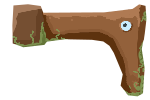
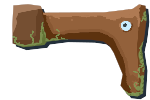
New Banana + Simpler Placing menu

diff --git a/menu/place_menu.py b/menu/place_menu.py
@@ -74,22 +74,6 @@ def place_menu(main):
         main.field_y = int((main.mouse_pos[1] - 242) / 50)
         main.mouse_in_field = True
     
-
-    # Selecting fish sizes
-    if main.mouse_button == 1: # Left mouse button check
-        if main.is_in_rect(main.mouse_pos, (198, 262), (204, 165)):
-            if main.current_lengths.count(2) > 0:
-                main.current_fish_selected = 2 # 2x1 Fish
-        if main.is_in_rect(main.mouse_pos, (198, 427), (276, 159)):
-            if main.current_lengths.count(3) > 0:
-                main.current_fish_selected = 3 # 3x1 Fish
-        if main.is_in_rect(main.mouse_pos, (1087, 268), (381, 152)):
-            if main.current_lengths.count(4) > 0:
-                main.current_fish_selected = 4 # 4x1 Fish
-        if main.is_in_rect(main.mouse_pos, (1087, 420), (455, 142)):
-            if main.current_lengths.count(5) > 0:
-                main.current_fish_selected = 5 # 5x1 Fish
-    
     # Rotation fish with mouse wheel (Mouse button 4 + 5)
     if main.mouse_button == 4:
         main.current_rotation -= 1
@@ -154,30 +138,6 @@ def render_placing_menu(display, field_x, field_y, fish_left, selected, button1,
         pygame.draw.rect(display, "#8b5555",
             pygame.Rect(field_x * 50 + 541, field_y * 50 + 242, 50, 50),
             5, 3)
-    
-    # White selection box
-    if selected == 2: # 2x1 Fish
-        pygame.draw.rect(display, "#EEEEEE",
-        pygame.Rect(198, 262, 244, 165),
-        5, 3)
-    if selected == 3: # 3x1 Fish
-        pygame.draw.rect(display, "#EEEEEE",
-        pygame.Rect(198, 427, 276, 159),
-        5, 3)
-    if selected == 4: # 4x1 Fish
-        pygame.draw.rect(display, "#EEEEEE",
-        pygame.Rect(1087, 268, 381, 152),
-        5, 3)
-    if selected == 5: # 5x1 Fish
-        pygame.draw.rect(display, "#EEEEEE",
-        pygame.Rect(1087, 420, 455, 142),
-        5, 3)
-    
-    # Fish count text
-    show_fish_count(display, (358, 269), fish_left.count(2))
-    show_fish_count(display, (380, 436), fish_left.count(3))
-    show_fish_count(display, (1266, 273), fish_left.count(4))
-    show_fish_count(display, (1278, 420), fish_left.count(5))
 
     # Exit button 110, 40
     text_color = "#b86145"
@@ -214,15 +174,4 @@ def render_placing_menu(display, field_x, field_y, fish_left, selected, button1,
             1100,
             645
         )
-    )
-
-
-
-def show_fish_count(display, pos, count):
-    text_color = "#CCCCCC"
-    if count == 0: text_color = "#999999"
-    text_texture = fish_count_font.render(f"{count}x", True, text_color)
-    display.blit(
-        text_texture,
-        pos
     )

diff --git a/menu/show_fish.py b/menu/show_fish.py
@@ -6,6 +6,7 @@ fish_l3 = pygame.image.load("assets\\fish l3.png")
 fish_l4 = pygame.image.load("assets\\fish l4.png")
 fish_l5 = pygame.image.load("assets\\fish l5.png")
 fish_l6 = pygame.image.load("assets\\fish l6.png")
+fish_l7 = pygame.image.load("assets\\fish l7.png")
 
 def render_fish(display, offsetX, offsetY, fish_list, preview):
     for fish in fish_list:
@@ -16,6 +17,7 @@ def render_fish(display, offsetX, offsetY, fish_list, preview):
         if fish.length == 4: fish_texture = fish_l4
         if fish.length == 5: fish_texture = fish_l5
         if fish.length == 6: fish_texture = fish_l6
+        if fish.length == 7: fish_texture = fish_l7
         if preview:
             fish_texture.set_alpha(120)
         else:
@@ -27,6 +29,7 @@ def render_fish(display, offsetX, offsetY, fish_list, preview):
 
             if fish.length == 1: position = (position[0], position[1] - 50)
             if fish.length == 6: position = (position[0], position[1] + 150)
+            if fish.length == 7: position = (position[0], position[1] + 250)
 
             display.blit(fish_texture, position)
         if fish.direction == 1:
@@ -38,6 +41,7 @@ def render_fish(display, offsetX, offsetY, fish_list, preview):
 
             if fish.length == 1: position = (position[0] - 50, position[1])
             if fish.length == 6: position = (position[0] - 50, position[1])
+            if fish.length == 7: position = (position[0] - 50, position[1])
 
             display.blit(fish_texture, position)
         if fish.direction == 3:
@@ -49,6 +53,9 @@ def render_fish(display, offsetX, offsetY, fish_list, preview):
                 fish_texture = pygame.transform.flip(fish_texture, False, True)
             if fish.length == 6:
                 position = (position[0] + 150, position[1] - 50)
+                fish_texture = pygame.transform.flip(fish_texture, False, True)
+            if fish.length == 7:
+                position = (position[0] + 250, position[1] - 50)
                 fish_texture = pygame.transform.flip(fish_texture, False, True)
 
             display.blit(fish_texture, position)

diff --git a/fish_dict.py b/fish_dict.py
@@ -35,11 +35,11 @@ def get_fish_dict():
         "o2" : [[0,0],[0,1],[0,2],[-1,2]],
         "o3" : [[0,0],[-1,0],[-2,0],[-2,-1]]
     }
-    harry_dict = {
-        "o0" : [[0,0],[0,-1],[1,-1],[1,-2]],
-        "o1" : [[0,0],[1,0],[1,1],[2,1]],
-        "o2" : [[0,0],[0,1],[-1,1],[-1,2]],
-        "o3" : [[0,0],[-1,0],[-1,-1],[-2,-1]]
+    banana_dict = {
+        "o0" : [[0,0],[0,-1],[1,-1]],
+        "o1" : [[0,0],[1,0],[1,1]],
+        "o2" : [[0,0],[0,1],[-1,1]],
+        "o3" : [[0,0],[-1,0],[-1,-1]]
     }
     fishes_dic = {
         "robin" : robin_dict,
@@ -48,6 +48,6 @@ def get_fish_dict():
         "rochen" : rochen_dict,
         "fred" : fred_dict,
         "lobert" : lobert_dict,
-        "harry" : harry_dict,
+        "banana" : banana_dict,
     }
     return fishes_dic

diff --git a/place.py b/place.py
@@ -15,7 +15,7 @@ def place(player,posXY,direction,fish_type):
     elif fish_type == 6:
         selected_fish=dic["lobert"]
     else:
-        selected_fish=dic["harry"]
+        selected_fish=dic["banana"]
     direct= "o"+str(direction)
     selected_fish = selected_fish[direct]
     
@@ -36,6 +36,5 @@ def place(player,posXY,direction,fish_type):
     if len(used) == len(set(used)): # überprüfe nach duplikaten?
         fish = Fish(posXY,direction,fish_type,newFish) # erstelle neuen fisch
         player.addFish(fish) # füge Fish in das player objekt ein
-        print(newFish)
         return True # gebe True als plazierbar aus
     else: return False # wenn nicht dann gebe False als nicht plazierbar aus

diff --git a/menu/shoot_menu.py b/menu/shoot_menu.py
@@ -83,7 +83,7 @@ def shoot_menu(main):
                     success = main.game.aiShoot()
     
     # Preview AI fishes
-    if main.key == "u": main.ai_fish_preview = not main.ai_fish_preview
+    if main.key == "m": main.ai_fish_preview = not main.ai_fish_preview
 
     render_shoot_menu(main.display, main.field_x, main.field_y,
         main.button2, main.ai_timer, main.transition_time,
